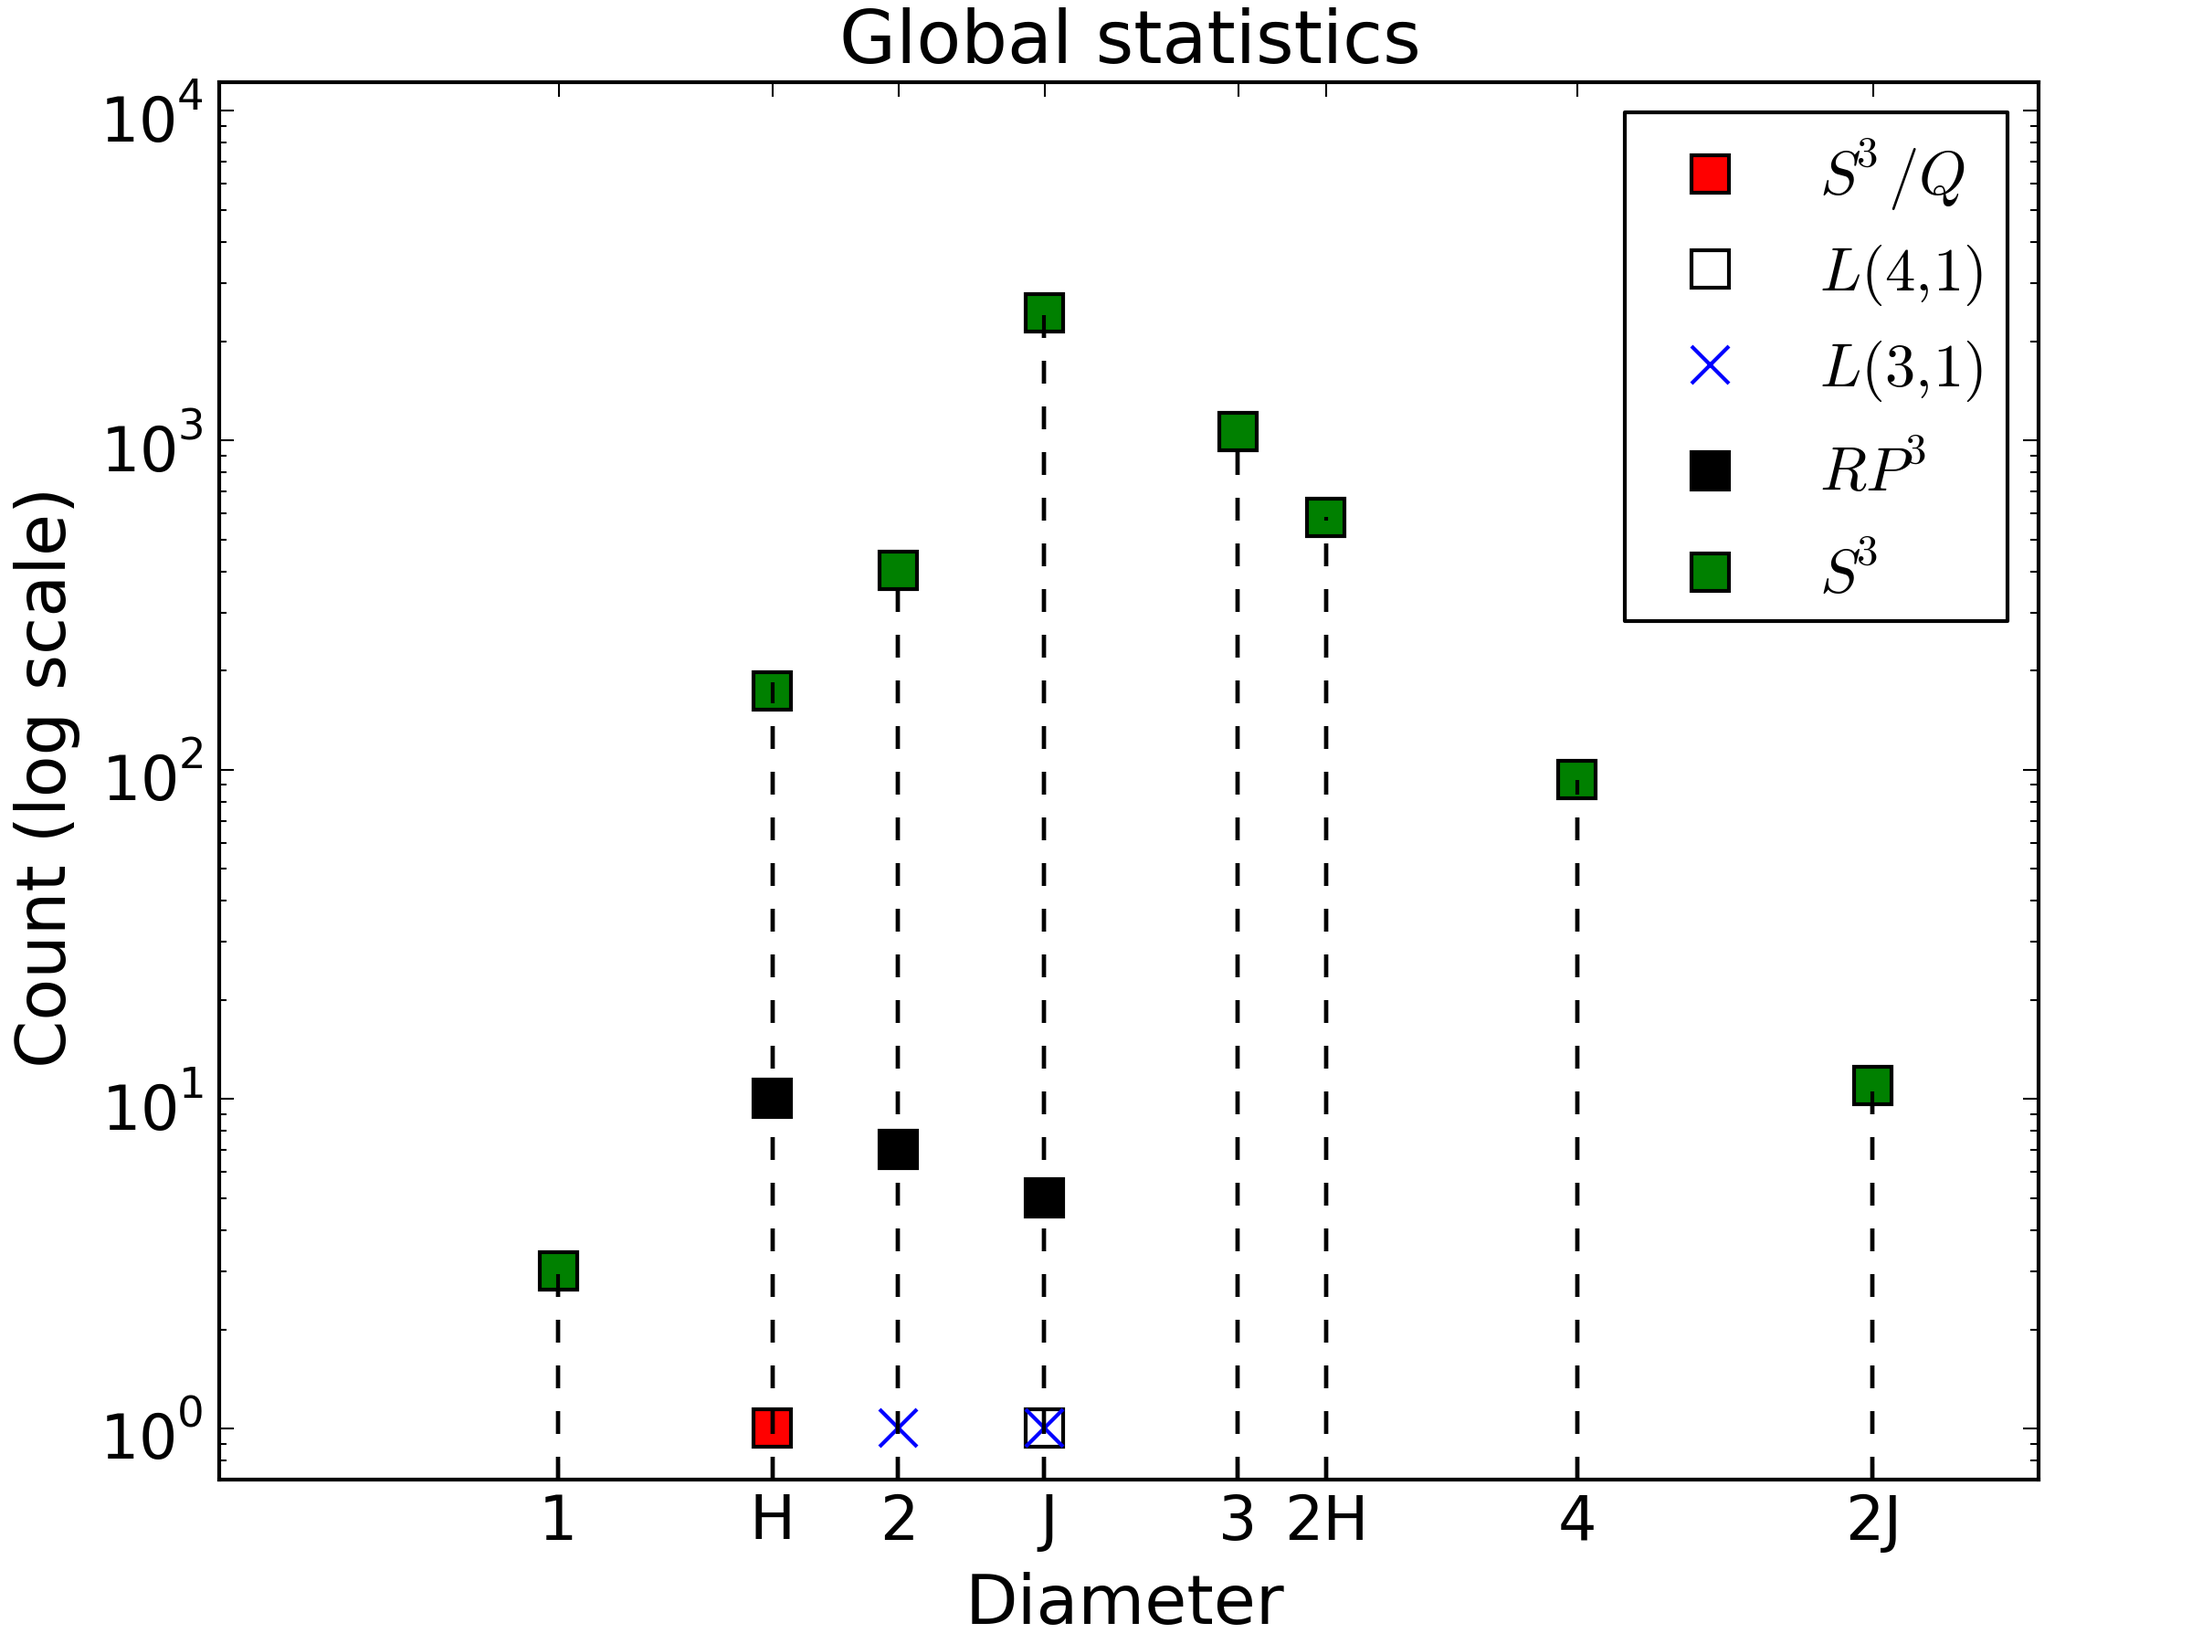
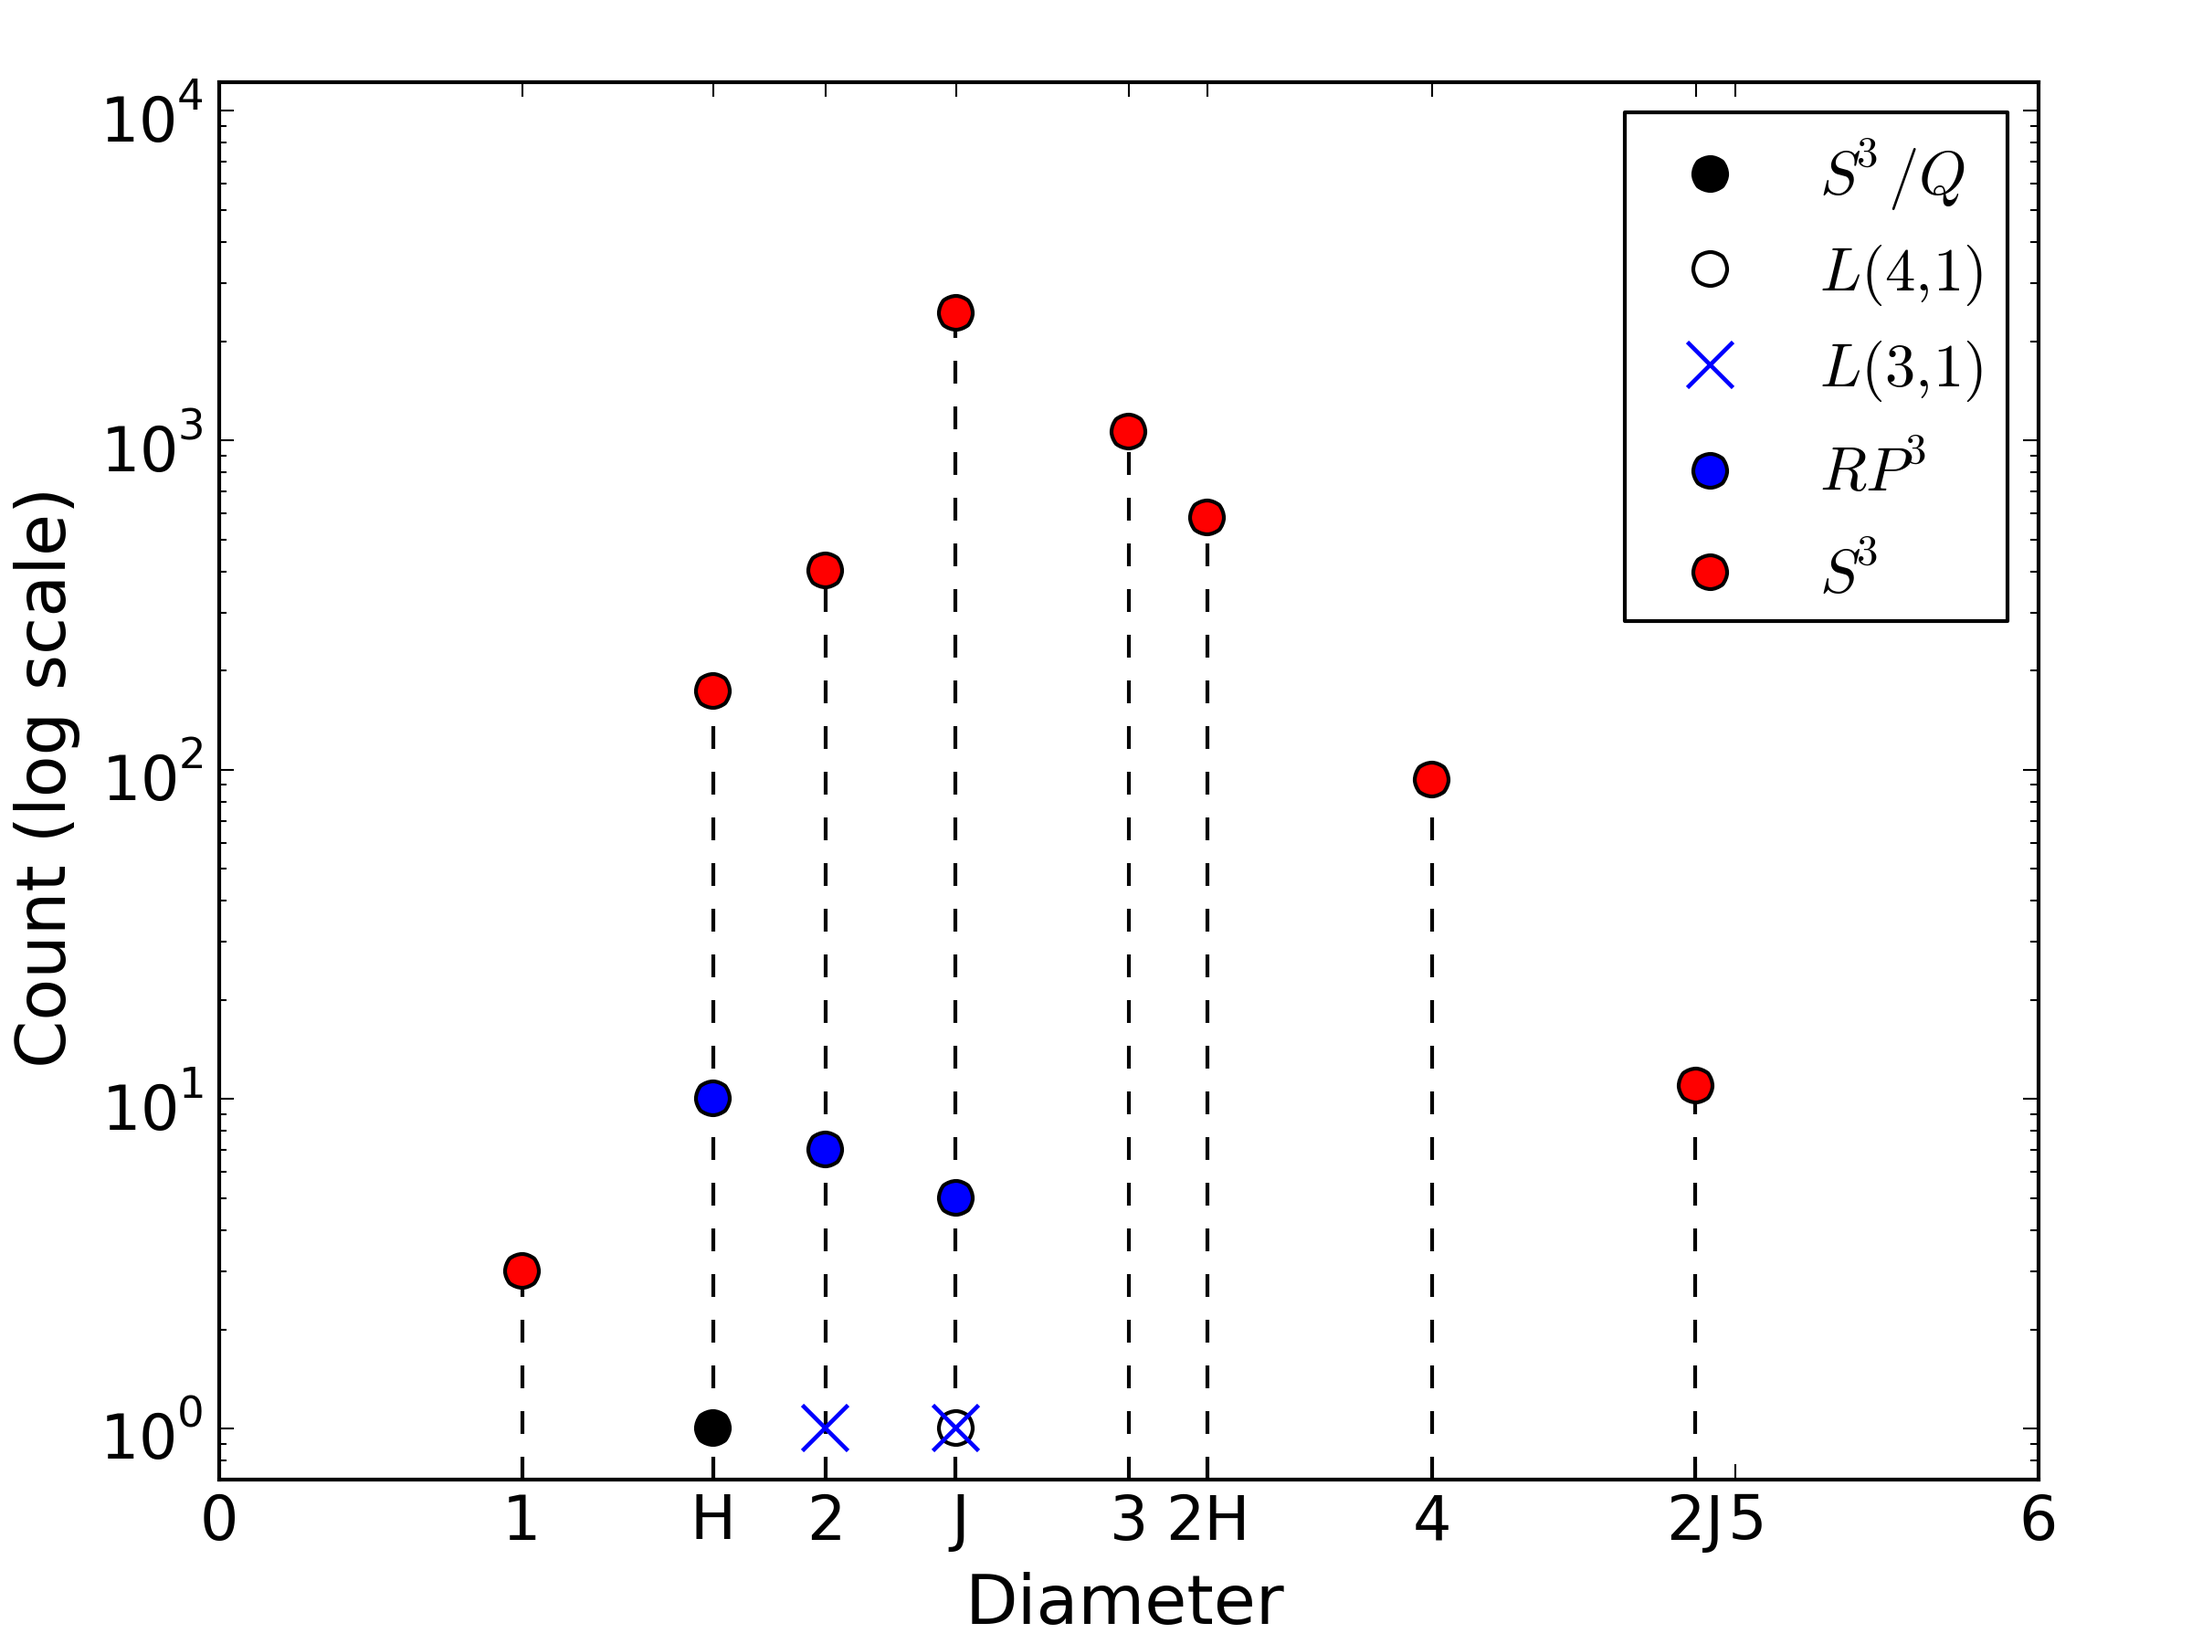
updated split figures

diff --git a/split_edge.py b/split_edge.py
@@ -27,16 +27,15 @@ fig_size=(csize,csize*1.618)
 
 fig = pylab.figure()
 
-fig.subplots_adjust(top=0.95,bottom=0.10,left=0.10,right=0.93,hspace=0.35,wspace=0.2)
+fig.subplots_adjust(top=0.95,bottom=0.1,left=0.10,right=0.93,hspace=0.35,wspace=0.2)
 
 # this is plot 1 with Procut orange data
 
 
 ax = fig.add_subplot(1,1,1)
 
-diameters = [ 1, 1.63, 2, 2.43, 3, 3.26, 4, 4.87 ]
-steps =[ '1', 'H', '2', 'J', '3', '2H', '4', '2J   ' ]
-counts = [ 3, 184, 409, 2445, 1060, 582, 93, 11 ] 
+diameters = [ 1, 2, 3, 4, 5 ]
+steps =[ '1', '2', '3', '4', '5' ]
 types = [ '$S^{3}/Q$',  '$L(4,1)$' ,'$L(3,1)$' ,'$RP^{3}$' ,'$S^{3}$' ]
 markers = ['ko','wo','bx','bo','ro']
 msdef = 9
@@ -44,37 +43,31 @@ markersizes = [msdef,msdef,12,msdef,msdef]
 mewdef = 1
 markeredgewidths = [mewdef,mewdef,1.1,mewdef,mewdef]
 
+
 countd = {}
-countd[ '$S^{3}/Q$'] = [ 0, 1, 0, 0, 0, 0, 0, 0 ]
-countd[ '$L(4,1)$' ] = [ 0, 0, 0, 1, 0, 0, 0, 0 ]
-countd[ '$L(3,1)$' ] = [ 0, 0, 1, 1, 0, 0, 0, 0 ]
-countd[ '$RP^{3}$' ] = [ 0,10, 7, 5, 0, 0, 0, 0 ]
-countd[ '$S^{3}$'  ]  = [ 3, 173, 401, 2438, 1060, 582, 93, 11 ]
-
-#$1$ &  &  &  &   &3    & 3    \\
-#$2$ & 1&  &1 &17 &574  & 593  \\
-#$3$ &  &1 &1 &5  &3498 & 3505 \\
-#$4$ &  &  &  &   &675  & 675   \\
-#$5$ &  &  &  &   &11   & 11   \\
-#Total&1 &1 &2 &22   &4761   &4787  \\
-
-
+countd[ '$S^{3}/Q$'] = [ 0, 1, 0, 0, 0]
+countd[ '$L(4,1)$' ] = [ 0, 0, 0, 1, 0]
+countd[ '$L(3,1)$' ] = [ 0, 0, 1, 1, 0]
+countd[ '$RP^{3}$' ] = [ 0,17, 5, 0, 0]
+countd[ '$S^{3}$'  ] = [ 3, 574, 3498, 675, 11 ]
 
 
 #ax.plot(diameters,counts,'k--',alpha=0.5)
-for d,c,s in zip(diameters,counts,steps):
+for d,c,s in zip(diameters,countd[ '$S^{3}$'  ],steps):
     ax.plot([d,d],[0.7,c],'k--')
 
 for t,m,ms,mew in zip(types,markers,markersizes,markeredgewidths):
 
     ax.semilogy(diameters,countd[t],m,ms=ms,mew=mew,label=t)
 
-ax.set_xlabel('Diameter')
+ax.set_xlabel('Diameter with only Edges')
+#ax.xaxis.set_label_coords(0.5, -0.12)
 ax.set_ylabel('Count (log scale)')
-ax.set_xticks([0] + diameters + [5,6])
+ax.set_xticks([0] + diameters + [6])
 #ax.set_yticks(yt)
-ax.set_xticklabels(['0'] +  steps + [' 5','6'] , horizontalalignment='center')
-ax.axis([0,6,0.7,numpy.max(counts)*5])
+ax.set_xticklabels( ['0','1','2','3','4','5','6'], horizontalalignment='center')
+a=ax.axis([0,6,0.7,3498*5])
+
 ax.legend(numpoints=1)
 
 
@@ -82,5 +75,5 @@ ax.legend(numpoints=1)
 
 
 
-pylab.savefig('./paper/figures/split_statistics.png', dpi=300)
+pylab.savefig('./paper/figures/split_edge_diameters.png', dpi=300)
 pylab.show()

diff --git a/paper/paper.tex b/paper/paper.tex
@@ -173,7 +173,7 @@ A small Python program was created to examine each manifold in the census and co
     {
 	    \setlength\fboxsep{10pt}
 		\setlength\fboxrule{0pt}
-		\fbox{\includegraphics[width=0.75\linewidth]{figures/edge_diameters.png}}
+		\fbox{\includegraphics[width=0.75\linewidth]{figures/split_edge_diameters.png}}
     }
 	\begin{tabular} {| r | r | r | r | r | r | r |}	
 		\hline
